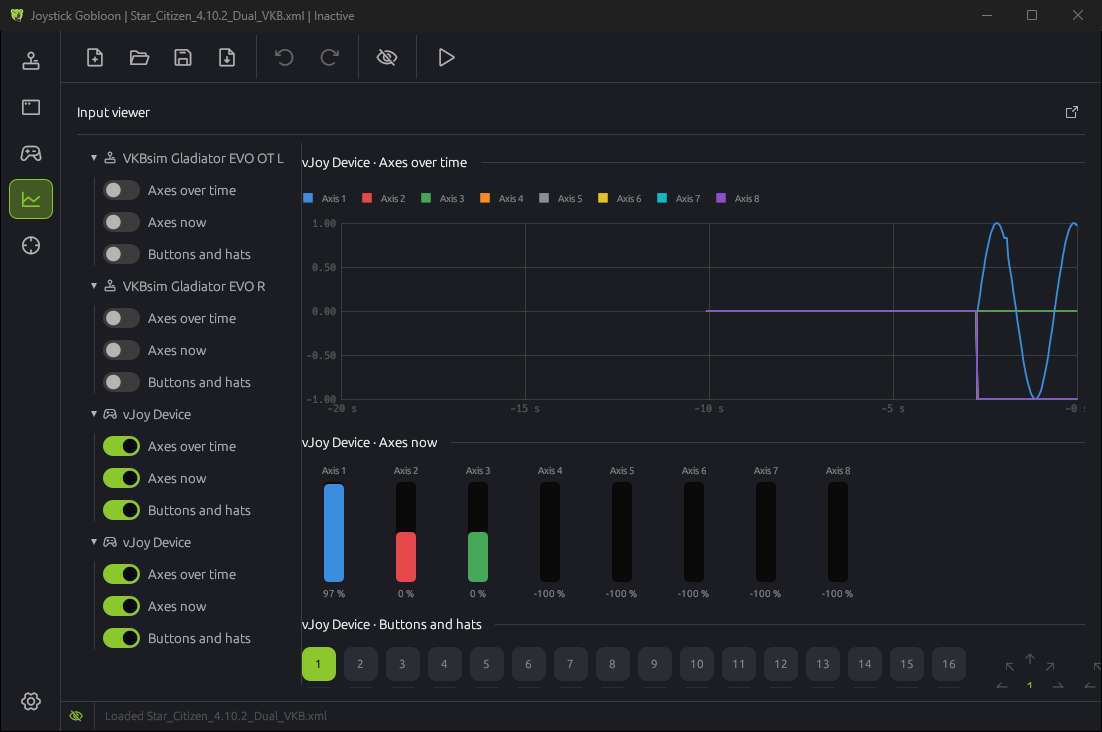
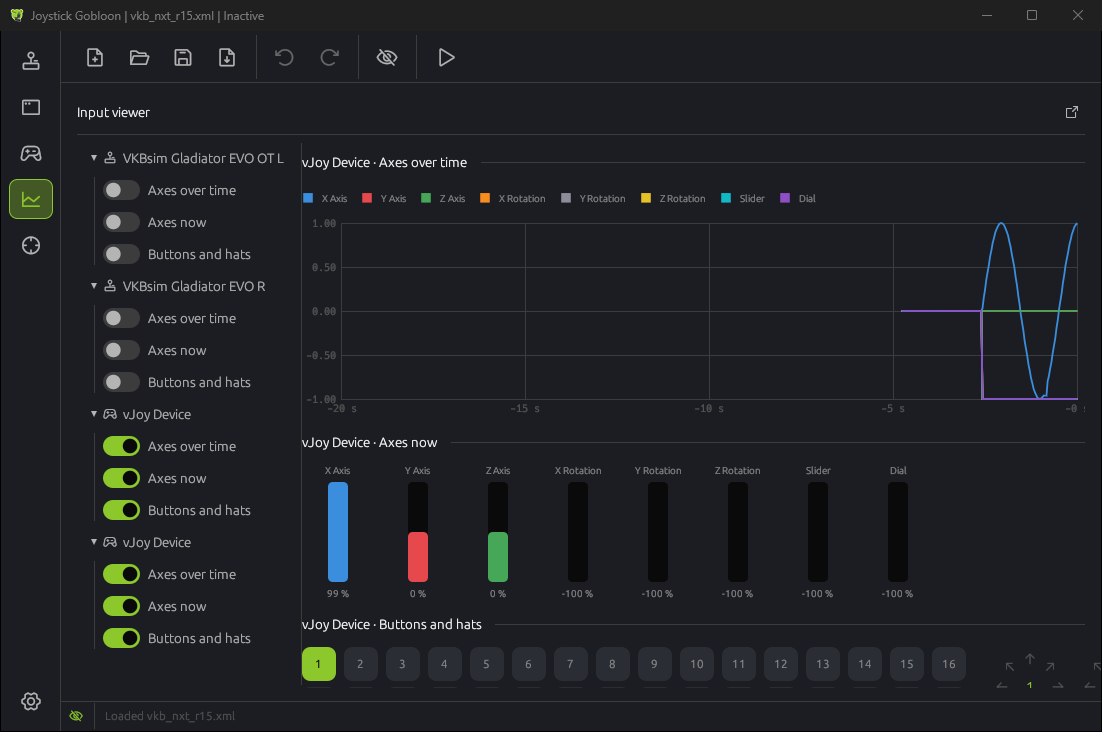
Publish web 1b7c4ea

diff --git a/learn.html b/learn.html
@@ -29,7 +29,7 @@
   <link rel="stylesheet" href="https://fonts.googleapis.com/css2?family=Geist:wght@400;500;600&family=Geist+Mono:wght@400&display=swap">
   <link rel="stylesheet" href="https://unpkg.com/@phosphor-icons/web@2.1.1/src/regular/style.css">
   <link rel="stylesheet" href="https://unpkg.com/@phosphor-icons/web@2.1.1/src/bold/style.css">
-  <link rel="stylesheet" href="styles.css?v=85d4cce">
+  <link rel="stylesheet" href="styles.css?v=1b7c4ea">
   <script type="application/ld+json">
 {
   "@context": "https://schema.org",
@@ -226,7 +226,7 @@
           <h2 id="axes-title">Axes</h2>
           <article class="learn-action" id="response-curve">
             <h3><i class="ph ph-chart-line" aria-hidden="true"></i>Response curve</h3>
-            <p>Shapes an axis: drag the points of the curve, double click to add one, right click to remove one. Linear, cubic spline, smooth (no overshoot) and Bézier curves. A cubic spline can swing past its points, turning back or running into the end of the axis; the smooth curve stays between them. <span class="term">Symmetric</span> mirrors your edits through the center; <span class="term">Invert</span> flips the curve. The deadzones below the chart set where the axis does nothing: at both ends and around the center. Put the curve before <span class="term">Map to vJoy</span>, which then sends the shaped value.</p>
+            <p>Shapes an axis: drag the points of the curve, double click to add one, right click a point to remove it. A right click on empty space inverts the curve (a switch in the settings turns this off). Linear, cubic spline, smooth (no overshoot) and Bézier curves. A cubic spline can swing past its points, turning back or running into the end of the axis; the smooth curve stays between them. <span class="term">Symmetric</span> mirrors your edits through the center; <span class="term">Invert</span> flips the curve. The deadzones below the chart set where the axis does nothing: at both ends and around the center. Put the curve before <span class="term">Map to vJoy</span>, which then sends the shaped value.</p>
             <figure class="shot"><img src="img/actions/response-curve.png" loading="lazy" alt="Response curve: a cubic spline that is flat around the center, with its points"></figure>
           </article>
           <article class="learn-action" id="split-axis">
@@ -236,7 +236,7 @@
           </article>
           <article class="learn-action" id="merge-axis">
             <h3><i class="ph ph-arrows-merge" aria-hidden="true"></i>Merge axis</h3>
-            <p>Combines two axes into one value: average, minimum, maximum, sum, difference (for two pedals as one rudder), the one deflected most, or the one closer to the center. Bind it to both axes; the add menu offers an existing merge so both share it.</p>
+            <p>Combines two axes into one value: average, minimum, maximum, sum, difference (for two pedals as one rudder), the one deflected most, or the one closer to the center. It runs when either axis moves, so it is bound to both: picking an axis in its editor binds it there and takes it off the axis it no longer reads, and linking a new merge to another axis makes that its second axis. A merge reads two axes, so it cannot be linked to a third one.</p>
             <figure class="shot"><img src="img/actions/merge-axis.png" loading="lazy" alt="Merge axis with its two axes and the operation"></figure>
           </article>
           <article class="learn-action" id="dual-axis-deadzone">
@@ -364,6 +364,6 @@
     </div>
   </footer>
 
-  <script src="main.js?v=85d4cce" defer></script>
+  <script src="main.js?v=1b7c4ea" defer></script>
 </body>
 </html>

diff --git a/emulation.html b/emulation.html
@@ -29,7 +29,7 @@
   <link rel="stylesheet" href="https://fonts.googleapis.com/css2?family=Geist:wght@400;500;600&family=Geist+Mono:wght@400&display=swap">
   <link rel="stylesheet" href="https://unpkg.com/@phosphor-icons/web@2.1.1/src/regular/style.css">
   <link rel="stylesheet" href="https://unpkg.com/@phosphor-icons/web@2.1.1/src/bold/style.css">
-  <link rel="stylesheet" href="styles.css?v=85d4cce">
+  <link rel="stylesheet" href="styles.css?v=1b7c4ea">
   <script type="application/ld+json">
 {
   "@context": "https://schema.org",
@@ -306,7 +306,7 @@
             <ul class="ticks">
               <li><i class="ph-bold ph-check" aria-hidden="true"></i><span>Hiding lasts only while Joystick Gobloon runs. Close the app and every program sees the sticks again.</span></li>
               <li><i class="ph-bold ph-check" aria-hidden="true"></i><span>There is no list of programs that still see hidden devices.</span></li>
-              <li><i class="ph-bold ph-check" aria-hidden="true"></i><span>Programs that read raw HID (hidraw), Steam for example, are not covered. Turn off Steam Input for the sticks if Steam sees them twice.</span></li>
+              <li><i class="ph-bold ph-check" aria-hidden="true"></i><span>Programs that read raw HID (hidraw), such as Steam or Wine and Proton, are not covered when your user may open the stick's hidraw node; such a stick gets a warning sign on its tab and in the device hiding window. Turn off hidraw (or Steam Input) for that stick in those programs, or games see it twice.</span></li>
             </ul>
           </article>
         </section>
@@ -318,7 +318,7 @@
             <p>The two stick game from the start of this page, from nothing to playing:</p>
             <ol class="numbered">
               <li><strong>Create two virtual joysticks</strong> on the Virtual joysticks page: vJoy #1 for the left stick and vJoy #2 for the right one, each with the axes and as many buttons as the stick has.</li>
-              <li><strong>Build or import the profile.</strong> Import a Joystick Gremlin profile from the toolbar, or start a new one. If it was made on another PC, use <span class="term">Map controls</span> on the Devices page to match it to your sticks.</li>
+              <li><strong>Build or import the profile.</strong> Import a Joystick Gremlin profile from the toolbar, or start a new one. If it was made on another PC, use <span class="term">Map controls</span> on the Devices page to match it to your sticks. A profile also remembers the virtual devices it uses: when one is missing here, a banner on the Devices page offers to set it up.</li>
               <li><strong>Map every input.</strong> Select an input on the Devices page and add <a href="learn.html#map-to-vjoy">Map to vJoy</a>: left stick inputs to vJoy #1, right stick inputs to vJoy #2.</li>
               <li><strong>Add the extras.</strong> A Tempo action on the mode button: a short press sends one vJoy button that the game uses to cycle modes, a long press sends another that jumps between Combat and Travel. Make a thumb button the M1 modifier and give the buttons you want doubled an M1 layer. Put a response curve before Map to vJoy on pitch and yaw.</li>
               <li><strong>Hide the real sticks</strong> in the Device hiding window and reconnect them.</li>
@@ -379,6 +379,6 @@
     </div>
   </footer>
 
-  <script src="main.js?v=85d4cce" defer></script>
+  <script src="main.js?v=1b7c4ea" defer></script>
 </body>
 </html>

diff --git a/motion.js b/motion.js
@@ -154,12 +154,12 @@
     vjoy(stage, W, H) {
       const knobs = [];
       for (let i = 0; i < 8; i++) {
-        const row = overlay(stage, W, H, 125, 418 + i * 32, 328, 24, "ov-slider");
+        const row = overlay(stage, W, H, 148, 418 + i * 32, 328, 24, "ov-slider");
         const rail = document.createElement("i");
         rail.className = "rail";
         const knob = document.createElement("i");
         knob.className = "knob";
-        knob.style.left = `${((277 - 125) / 328) * 100}%`;
+        knob.style.left = `${((300 - 148) / 328) * 100}%`;
         row.append(rail, knob);
         knobs.push(knob);
       }
@@ -200,9 +200,9 @@
     // A live feed: the axis bars breathe and settle on their values, buttons 2 to 16 light in a chase.
     viewer(stage, W, H) {
       const colors = ["#3b8ede", "#e5484d", "#46a758", "#f0932b", "#9a9a9a", "#e8c13a", "#1fb0bf", "#8e57d4"];
-      const rest = [0.97, 0, 0, -1, -1, -1, -1, -1];
+      const rest = [0.99, 0, 0, -1, -1, -1, -1, -1];
       const fills = colors.map((c, i) => {
-        const bar = overlay(stage, W, H, 324 + i * 72, 482, 20, 100, "ov-bar");
+        const bar = overlay(stage, W, H, 328 + i * 80, 482, 20, 100, "ov-bar");
         const fill = document.createElement("i");
         fill.style.background = c;
         bar.append(fill);

diff --git a/index.html b/index.html
@@ -29,7 +29,7 @@
   <link rel="stylesheet" href="https://fonts.googleapis.com/css2?family=Geist:wght@400;500;600&family=Geist+Mono:wght@400&display=swap">
   <link rel="stylesheet" href="https://unpkg.com/@phosphor-icons/web@2.1.1/src/regular/style.css">
   <link rel="stylesheet" href="https://unpkg.com/@phosphor-icons/web@2.1.1/src/bold/style.css">
-  <link rel="stylesheet" href="styles.css?v=85d4cce">
+  <link rel="stylesheet" href="styles.css?v=1b7c4ea">
   <script type="application/ld+json">
 {
   "@context": "https://schema.org",
@@ -580,7 +580,7 @@
     </div>
   </footer>
 
-  <script src="main.js?v=85d4cce" defer></script>
-  <script src="motion.js?v=85d4cce" defer></script>
+  <script src="main.js?v=1b7c4ea" defer></script>
+  <script src="motion.js?v=1b7c4ea" defer></script>
 </body>
 </html>

diff --git a/404.html b/404.html
@@ -12,7 +12,7 @@
   <link rel="preconnect" href="https://fonts.gstatic.com" crossorigin>
   <link rel="stylesheet" href="https://fonts.googleapis.com/css2?family=Geist:wght@400;500;600&display=swap">
   <link rel="stylesheet" href="https://unpkg.com/@phosphor-icons/web@2.1.1/src/bold/style.css">
-  <link rel="stylesheet" href="/gobloon/styles.css?v=85d4cce">
+  <link rel="stylesheet" href="/gobloon/styles.css?v=1b7c4ea">
 </head>
 <body>
   <a class="skip" href="#main">Skip to content</a>

diff --git a/privacy.html b/privacy.html
@@ -12,7 +12,7 @@
   <link rel="preconnect" href="https://fonts.gstatic.com" crossorigin>
   <link rel="stylesheet" href="https://fonts.googleapis.com/css2?family=Geist:wght@400;500;600&display=swap">
   <link rel="stylesheet" href="https://unpkg.com/@phosphor-icons/web@2.1.1/src/bold/style.css">
-  <link rel="stylesheet" href="styles.css?v=85d4cce">
+  <link rel="stylesheet" href="styles.css?v=1b7c4ea">
 </head>
 <body>
   <a class="skip" href="#main">Skip to content</a>
